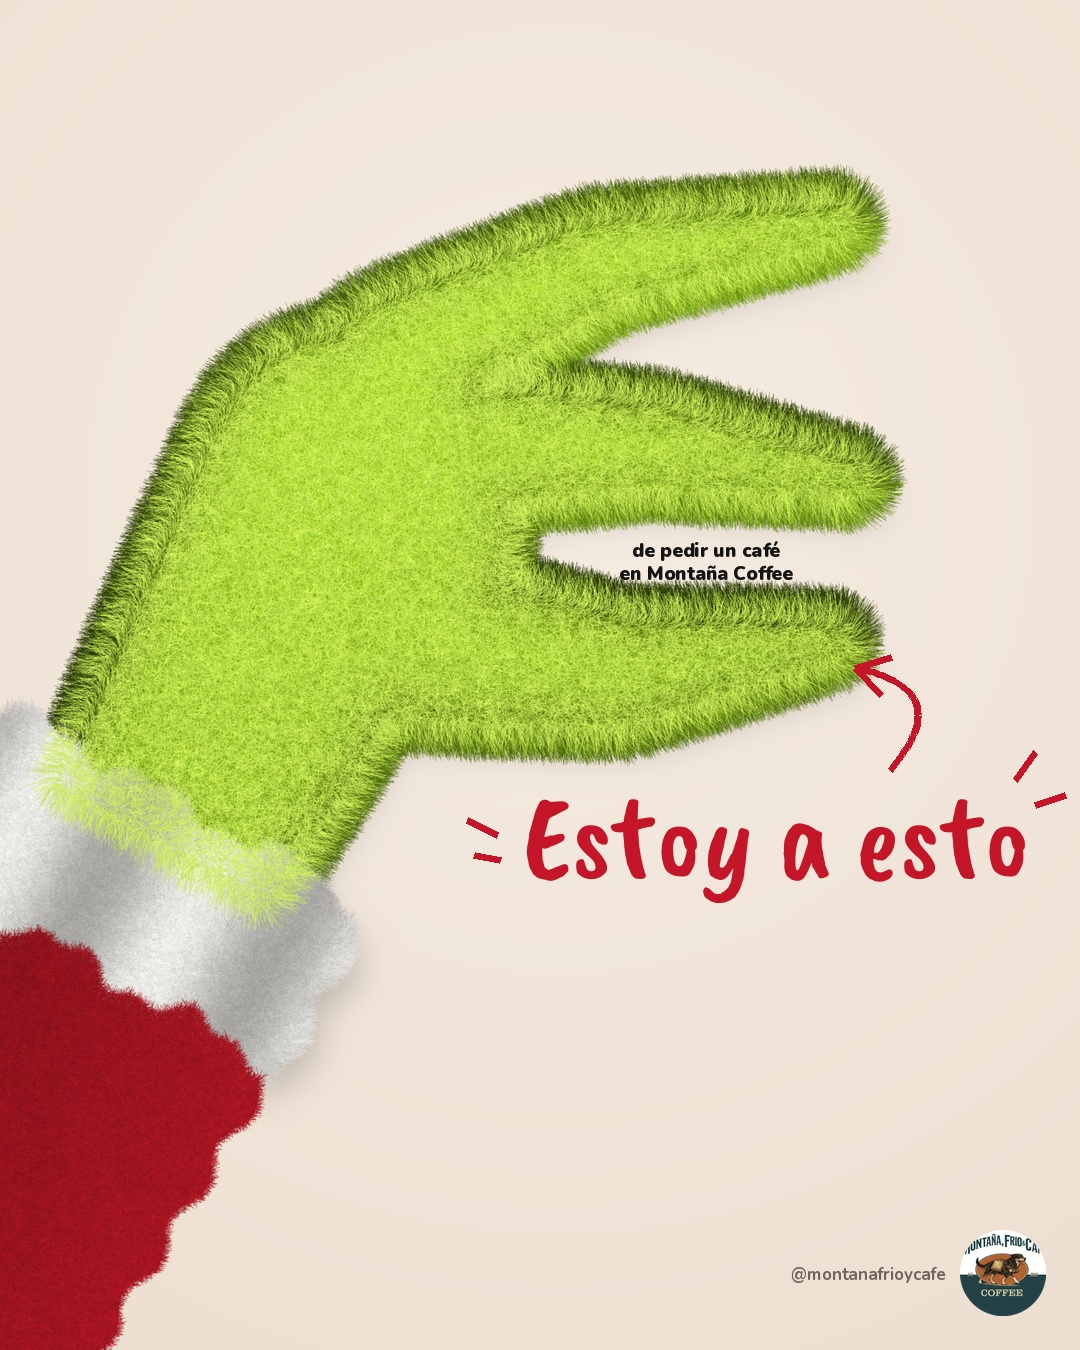
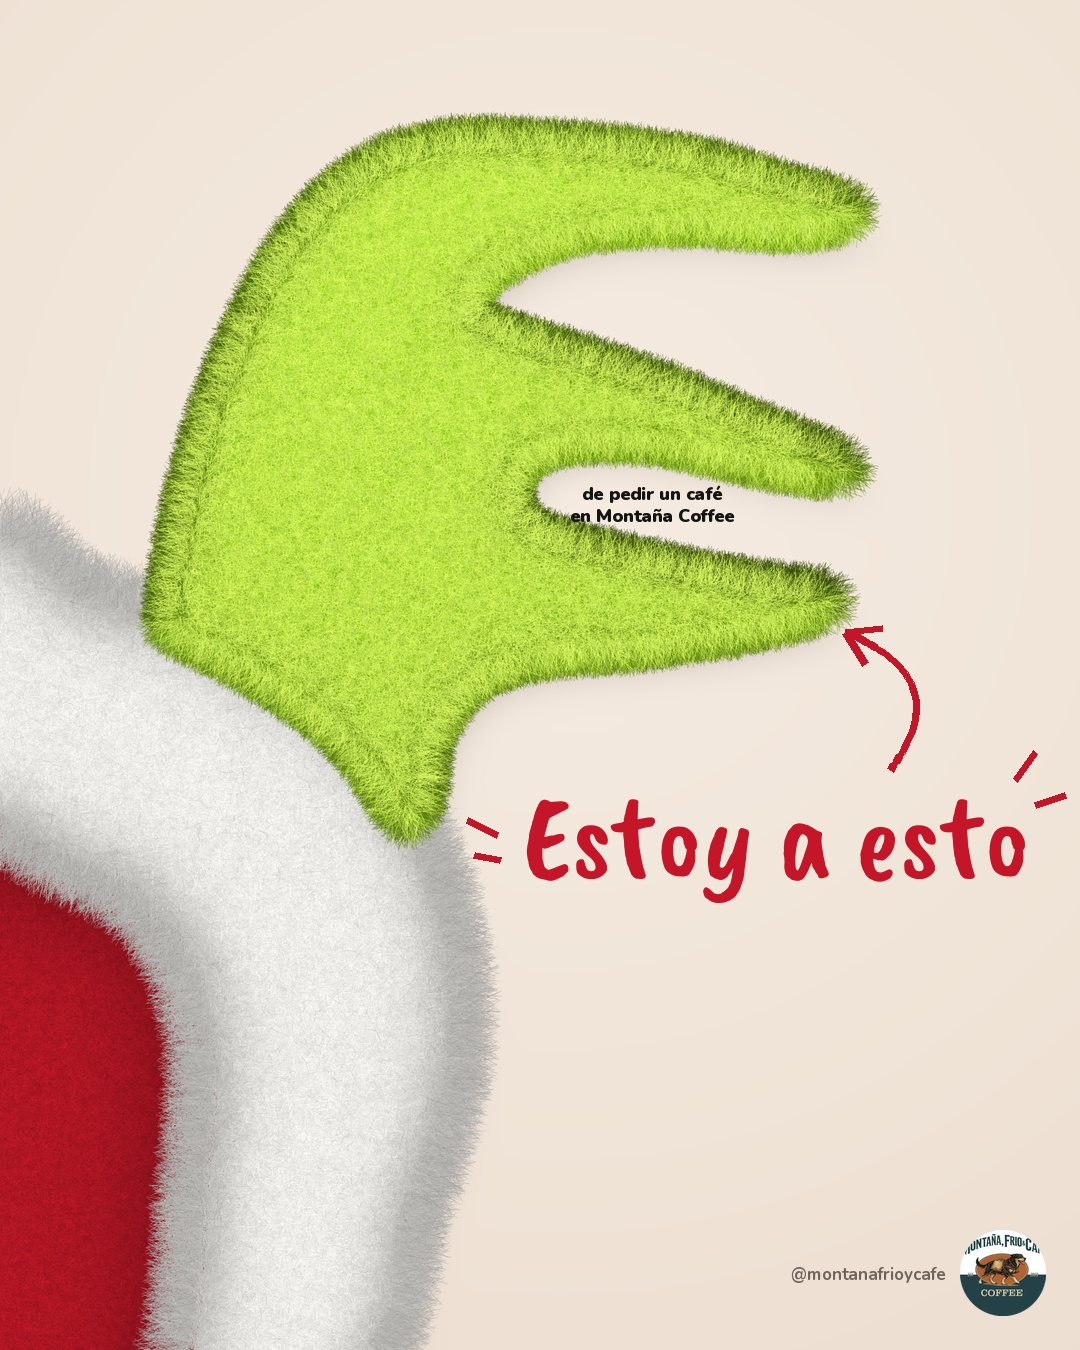
Estoy a esto: rediseño de la forma de la mano
Claude-Session: https://claude.ai/code/session_0158hRDxARKmvbM2KxjWxeiE

diff --git a/montana-cafe/hand.py b/montana-cafe/hand.py
@@ -1,71 +1,56 @@
 import numpy as np, math
-from PIL import Image, ImageDraw, ImageFilter, ImageFont
+from PIL import Image, ImageDraw, ImageFilter
 from scipy.ndimage import distance_transform_edt, gaussian_filter
-F="/tmp/claude-0/-home-user-Sangrado-ruidsooo/c7d5168e-b381-5e65-a7a1-e0769611653a/scratchpad/f/"
 K=3; W,H=1080*K,1350*K
 rng=np.random.default_rng(3)
-def P(x,y): return (x*K,y*K)
-def capsule(d,pts,r0,r1):
-    pts=np.array(pts,float); seg=[]
-    for i in range(len(pts)-1):
-        for t in np.linspace(0,1,60): seg.append(pts[i]*(1-t)+pts[i+1]*t)
-    n=len(seg)
-    for i,p in enumerate(seg):
-        r=(r0+(r1-r0)*(i/(n-1))**1.3)*K; x,y=p*K; d.ellipse((x-r,y-r,x+r,y+r),fill=255)
-# geometry (base coords)
-c=np.array([170,840.]); dv=np.array([-0.487,0.873]); nv=np.array([0.873,0.487])
-hm=Image.new("L",(W,H),0); d=ImageDraw.Draw(hm)
-d.ellipse((*P(210,330),*P(510,700)),fill=255)
-capsule(d,[(350,480),(240,700),(150,870)],150,120)
-capsule(d,[(390,360),(600,262),(835,222)],62,20)
-capsule(d,[(440,445),(650,445),(850,478)],62,20)
-capsule(d,[(400,640),(620,672),(830,640)],80,21)
-hm=np.array(hm)>0
+def cr(pts,closed=True,n=16):
+    P=np.array(pts,float); m=len(P); out=[]
+    rng_=range(m) if closed else range(m-1)
+    for i in rng_:
+        p0,p1,p2,p3=P[(i-1)%m],P[i],P[(i+1)%m],P[(i+2)%m]
+        for t in np.linspace(0,1,n,endpoint=False):
+            t2,t3=t*t,t*t*t
+            out.append(0.5*((2*p1)+(-p0+p2)*t+(2*p0-5*p1+4*p2-p3)*t2+(-p0+3*p1-3*p2+p3)*t3))
+    return [tuple(q*K) for q in out]
+def mask(pts,sharp=()):
+    im=Image.new("L",(W,H),0); ImageDraw.Draw(im).polygon(cr(pts),fill=255); return np.array(im)>0
+hand=[(165,730),(172,610),(196,480),(240,350),(300,240),(372,172),(450,148),(540,148),(680,162),(790,192),(850,212),
+      (790,224),(680,218),(572,228),(495,262),(466,292),(472,322),(530,346),(650,386),(770,436),(852,470),
+      (780,464),(660,438),(565,438),(516,462),(508,505),(540,538),(640,566),(750,588),(830,600),
+      (760,622),(640,642),(540,652),(470,678),(428,735),(405,820),(280,840)]
+hm=mask(hand)
+outer=[(-40,590),(90,600),(220,650),(350,740),(430,880),(450,1040),(410,1200),(330,1390),(-40,1390)]
+inner=[(-40,860),(70,860),(160,920),(205,1030),(200,1180),(160,1390),(-40,1390)]
+cuffo=mask(outer); sleeve=mask(inner); cuff=cuffo&~sleeve; hm&=~cuffo
 yy,xx=np.mgrid[0:H,0:W]/K
-along=(xx-c[0])*dv[0]+(yy-c[1])*dv[1]; across=(xx-c[0])*nv[0]+(yy-c[1])*nv[1]
-wav=10*np.sin(across/23)+6*np.sin(across/9)
-hm&=(along<10)|(~((across>-560)&(across<230)))
-side=(across>-560)&(across<200+8*np.sin(along/14)-0.05*np.maximum(along-150,0))
-cuff=(along>-25+wav)&(along<150+wav)&side
-sleeve=(along>=150+wav)&side
-# distance & normals
+def grads(m):
+    sm=gaussian_filter(m.astype(float),6*K); gy,gx=np.gradient(sm); return gx,gy
 din=distance_transform_edt(hm)/K
-sm=gaussian_filter(hm.astype(float),6*K)
-gy,gx=np.gradient(sm)
-# background
 bg=np.zeros((H,W,3)); g=np.clip(1-((xx-560)**2+(yy-500)**2)**.5/1100,0,1)[...,None]
 bg[:]=np.array([236,222,208])*(1-g)+np.array([246,236,226])*g
-# shadow
-sh=gaussian_filter((hm|cuff).astype(float),18*K); sh=np.roll(np.roll(sh,22*K,0),14*K,1)
-bg*=1-0.22*sh[...,None]
-img=bg.copy()
-# hand base shading
-light=np.clip(0.55+0.45*np.tanh(din/40)-0.25*(yy-300)/600+0.15*np.clip(-gy*K*40,-1,1),0.25,1.15)[...,None]
-green=np.array([150,205,30.])
-img=np.where(hm[...,None],green*light,img)
-img=np.where(cuff[...,None],np.array([238,236,232.])*np.clip(0.85+0.15*np.sin(across/30),0.7,1)[...,None],img)
-img=np.where(sleeve[...,None],np.array([175,22,35.])*np.clip(0.7+0.3*((across+300)/600),0.5,1)[...,None],img)
-im=Image.fromarray(np.clip(img,0,255).astype(np.uint8))
-dr=ImageDraw.Draw(im)
-def strands(mask,n,base,var,L0,L1,edgeboost,wid):
-    ys,xs=np.nonzero(mask); idx=rng.integers(0,len(xs),n)
+sh=gaussian_filter((hm|cuffo).astype(float),18*K); sh=np.pad(sh,((22*K,0),(14*K,0)))[:H,:W]
+bg*=1-0.22*sh[...,None]; img=bg.copy()
+hgx,hgy=grads(hm)
+light=np.clip(0.6+0.4*np.tanh(din/30)-0.2*(yy-300)/600+0.15*np.clip(-hgy*K*40,-1,1),0.3,1.15)[...,None]
+img=np.where(hm[...,None],np.array([150,205,30.])*light,img)
+dc=distance_transform_edt(cuff)/K
+img=np.where(cuff[...,None],np.array([240,238,234.])*np.clip(0.72+0.28*np.tanh(dc/40),0,1)[...,None],img)
+ds=distance_transform_edt(sleeve)/K
+img=np.where(sleeve[...,None],np.array([178,22,36.])*np.clip(0.55+0.45*np.tanh(ds/80),0,1)[...,None],img)
+im=Image.fromarray(np.clip(img,0,255).astype(np.uint8)); dr=ImageDraw.Draw(im)
+def strands(m,n,var,L0,L1,eb,tint=(1,1,1),flow=0.3,fixed=None):
+    gx,gy=grads(m); ys,xs=np.nonzero(m); idx=rng.integers(0,len(xs),n); w=max(1,K//2)
     for i in idx:
-        x,y=xs[i],ys[i]; nx,ny=-gx[y,x],-gy[y,x]; mag=math.hypot(nx,ny)
-        e=min(1,mag*K*25)  # near edge
-        a0=math.atan2(ny,nx) if mag>1e-9 else rng.uniform(0,6.28)
-        a=a0*e+(1-e)*(math.atan2(0.3,1)+rng.normal(0,1.2))+rng.normal(0,0.35)
-        Ln=(L0+rng.random()*(L1-L0))*(1+edgeboost*e)*K
-        x2,y2=x+math.cos(a)*Ln,y+math.sin(a)*Ln
-        cx_=x+math.cos(a+0.6)*Ln*0.3; 
-        l=rng.normal(1,var); col=tuple(int(min(255,max(0,v*l))) for v in base(x,y))
-        dr.line([(x,y),(cx_,y+math.sin(a+0.6)*Ln*0.3),(x2,y2)],fill=col,width=wid)
-def hb(x,y):
-    s=img[y,x]; return s
-strands(hm,700000,lambda x,y:img[y,x]*np.array([1.05,1.05,0.9]),0.16,7,15,1.6,max(1,K//2))
-strands(cuff,260000,lambda x,y:img[y,x],0.07,8,20,1.2,max(1,K//2))
-strands(sleeve,120000,lambda x,y:img[y,x],0.12,5,10,0.8,max(1,K//2))
-# a few highlight hairs
-strands(hm,90000,lambda x,y:(205,240,90),0.08,6,12,1.8,1)
-im=im.filter(ImageFilter.GaussianBlur(0.6*K/2))
-im.save("hand_big.png")
-print("ok")
+        x,y=xs[i],ys[i]; nx,ny=-gx[y,x],-gy[y,x]; mag=math.hypot(nx,ny); e=min(1,mag*K*25)
+        a0=math.atan2(ny,nx) if mag>1e-9 else 0
+        a=a0*e+(1-e)*(flow+rng.normal(0,1.2))+rng.normal(0,0.35) if e>0.05 else flow+rng.normal(0,1.2)
+        Ln=(L0+rng.random()*(L1-L0))*(1+eb*e)*K
+        base=fixed if fixed else img[y,x]; l=rng.normal(1,var)
+        col=tuple(int(min(255,max(0,v*l*t))) for v,t in zip(base,tint))
+        b=rng.normal(0,0.5)
+        dr.line([(x,y),(x+math.cos(a+b)*Ln*.5,y+math.sin(a+b)*Ln*.5),(x+math.cos(a)*Ln,y+math.sin(a)*Ln)],fill=col,width=w)
+strands(sleeve,110000,0.12,5,10,0.8)
+strands(cuff,320000,0.07,9,22,1.4)
+strands(hm,700000,0.16,7,14,1.5,tint=(1.05,1.05,.9),flow=0.2)
+strands(hm,90000,0.08,6,12,1.8,fixed=(205,240,90))
+im=im.filter(ImageFilter.GaussianBlur(0.75)); im.save("hand_big.png"); print("ok")

diff --git a/montana-cafe/slides.py b/montana-cafe/slides.py
@@ -15,7 +15,7 @@ def ctext(d,cx,cy,lines,f,fill,sp=1.05):
 L=["de pedir un café","en Montaña Coffee"]
 # slide 1
 s1=big.resize((1080,1350),Image.LANCZOS); d=ImageDraw.Draw(s1)
-ctext(d,706,560,L,nun(19),INK)
+ctext(d,652,503,L,nun(18),INK)
 cb=ImageFont.truetype(F+"CaveatBrush-Regular.ttf",120)
 txt="Estoy a esto"; w=d.textlength(txt,font=cb); x0=1030-w; y0=760
 d.text((x0,y0),txt,font=cb,fill=RED)
@@ -25,7 +25,7 @@ d.line([(1015,y0+20),(1035,y0-8)],fill=RED,width=7); d.line([(1035,y0+45),(1065,
 # arrow curve from text up to thumb tip
 pts=[]
 for i in range(41):
-    t=i/40; x=(1-t)**2*890+2*(1-t)*t*960+t*t*855; y=(1-t)**2*(y0+10)+2*(1-t)*t*690+t*t*668; pts.append((x,y))
+    t=i/40; x=(1-t)**2*890+2*(1-t)*t*960+t*t*845; y=(1-t)**2*(y0+10)+2*(1-t)*t*680+t*t*632; pts.append((x,y))
 d.line(pts,fill=RED,width=7,joint="curve")
 ex,ey=pts[-1]; px,py=pts[-6]; a=math.atan2(ey-py,ex-px)
 for s in(+1,-1): d.line([(ex,ey),(ex-38*math.cos(a+s*0.55),ey-38*math.sin(a+s*0.55))],fill=RED,width=7)
@@ -36,10 +36,10 @@ f2=nun(17); f2.set_variation_by_name("Bold")
 t2="@montanafrioycafe"; d.text((945-d.textlength(t2,font=f2),1262),t2,font=f2,fill=(110,100,92))
 s1.save(D+"/estoy_a_esto_1.jpg",quality=95)
 # slide 2: zoom
-box=(470*3,285*3,910*3,835*3)
+box=(430*3,228*3,870*3,778*3)
 s2=big.crop(box).resize((1080,1350),Image.LANCZOS); d=ImageDraw.Draw(s2)
-sc=1080/440; cx=(706-470)*sc; cy=(560-285)*sc
-ctext(d,cx,cy,L,nun(47),INK)
+sc=1080/440; cx=(652-430)*sc; cy=(503-228)*sc
+ctext(d,cx,cy,L,nun(44),INK)
 f3=nun(26); f3.set_variation_by_name("SemiBold")
 ft="@MONTANAFRIOYCAFE  ·  MEDELLÍN"; sp=4
 tw=sum(d.textlength(ch,font=f3)+sp for ch in ft)-sp; x=540-tw/2
